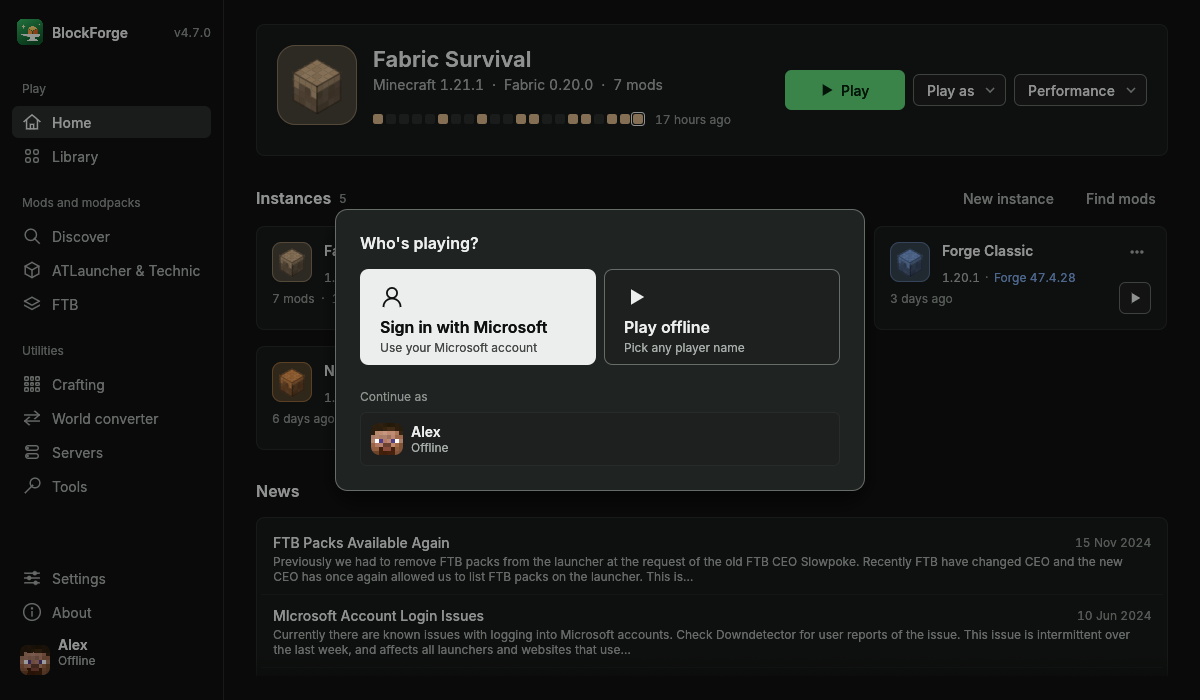
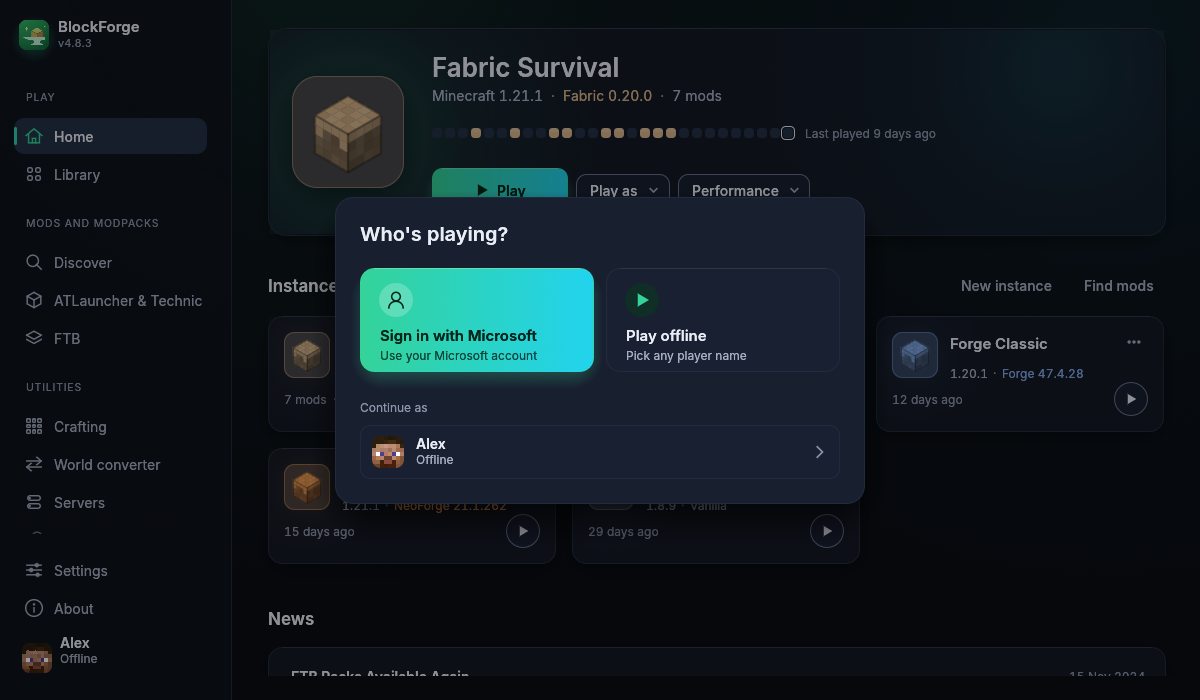
Merge the redesigned screens: unused helpers removed, glows keep their colour in the light look, README screenshots retaken

diff --git a/src/gui/widgets.rs b/src/gui/widgets.rs
@@ -29,7 +29,6 @@ pub fn card_frame() -> egui::Frame {
 
 /// A card that rises a little under the pointer (its shadow grows and its line brightens), for things that open
 /// when clicked. Returns what `add` returned and whether the card is under the pointer.
-#[allow(dead_code)]
 pub fn hover_card<R>(ui: &mut Ui, id: egui::Id, add: impl FnOnce(&mut Ui) -> R) -> (R, bool) {
     let was_hot = ui.data(|d| d.get_temp::<bool>(id.with("hot"))).unwrap_or(false);
     let t = motion::hover(ui, id, was_hot);
@@ -805,19 +804,6 @@ pub fn notice(ui: &mut Ui, kind: NoticeKind, text: &str, action: Option<&str>) -
             .inner
         })
         .inner
-}
-
-/// A quiet empty state inside its frame: one sentence and, if there is one, the action.
-pub fn empty_row(ui: &mut Ui, text: &str, action: Option<&str>) -> Option<Response> {
-    ui.add_space(16.0);
-    ui.vertical_centered(|ui| {
-        ui.label(RichText::new(text).color(c_muted()));
-        action.map(|a| {
-            ui.add_space(8.0);
-            secondary(ui, a)
-        })
-    })
-    .inner
 }
 
 /// "‹ Library": the small way back above a page's title.

diff --git a/src/gui/theme.rs b/src/gui/theme.rs
@@ -85,16 +85,6 @@ pub fn c_muted() -> Color32 {
 pub fn c_faint() -> Color32 {
     pick(0x8A94A9, 0x5E6778)
 }
-/// The ink fill: strong neutral emphasis (a selected chip's text, the knob of a switch).
-pub fn c_ink() -> Color32 {
-    pick(0xE9EDF5, 0x111827)
-}
-pub fn c_ink_hover() -> Color32 {
-    pick(0xFFFFFF, 0x273043)
-}
-pub fn c_on_ink() -> Color32 {
-    pick(0x0A0D14, 0xFFFFFF)
-}
 /// A selected list row or combo item, and selected text.
 pub fn c_selection() -> Color32 {
     pick(0x2A3550, 0xDCE3EE)
@@ -143,7 +133,6 @@ pub fn card_shadow() -> egui::Shadow {
 }
 
 /// The shadow of a card under the pointer: it rises a little.
-#[allow(dead_code)]
 pub fn card_shadow_raised() -> egui::Shadow {
     let a = if is_dark() { 130 } else { 30 };
     egui::Shadow { offset: [0, 12], blur: 32, spread: 0, color: Color32::from_black_alpha(a) }

diff --git a/src/gui/motion.rs b/src/gui/motion.rs
@@ -137,7 +137,8 @@ pub fn glow(painter: &Painter, center: Pos2, radius: f32, color: Color32) {
     let steps = 48u32;
     mesh.colored_vertex(center, color);
     // two rings: most of the light near the middle, a long soft tail
-    let mid = Color32::from_rgba_unmultiplied(color.r(), color.g(), color.b(), color.a() / 3);
+    // the colour is already premultiplied: scaling all four parts keeps its hue (unpacking it again would grey it)
+    let mid = color.gamma_multiply(1.0 / 3.0);
     for ring in 0..2u32 {
         let (rr, c) = if ring == 0 { (radius * 0.45, mid) } else { (radius, Color32::TRANSPARENT) };
         for i in 0..steps {

diff --git a/src/gui/mod.rs b/src/gui/mod.rs
@@ -2187,6 +2187,7 @@ impl App {
                 | "instance-settings-java"
                 | "instance-settings-cmd" => {
                     if let Some(f) = first {
+                        let name = name.trim_end_matches("-light");
                         self.open_instance(&f);
                         self.tab = match name {
                             "instance-mods" => InstTab::Mods,
